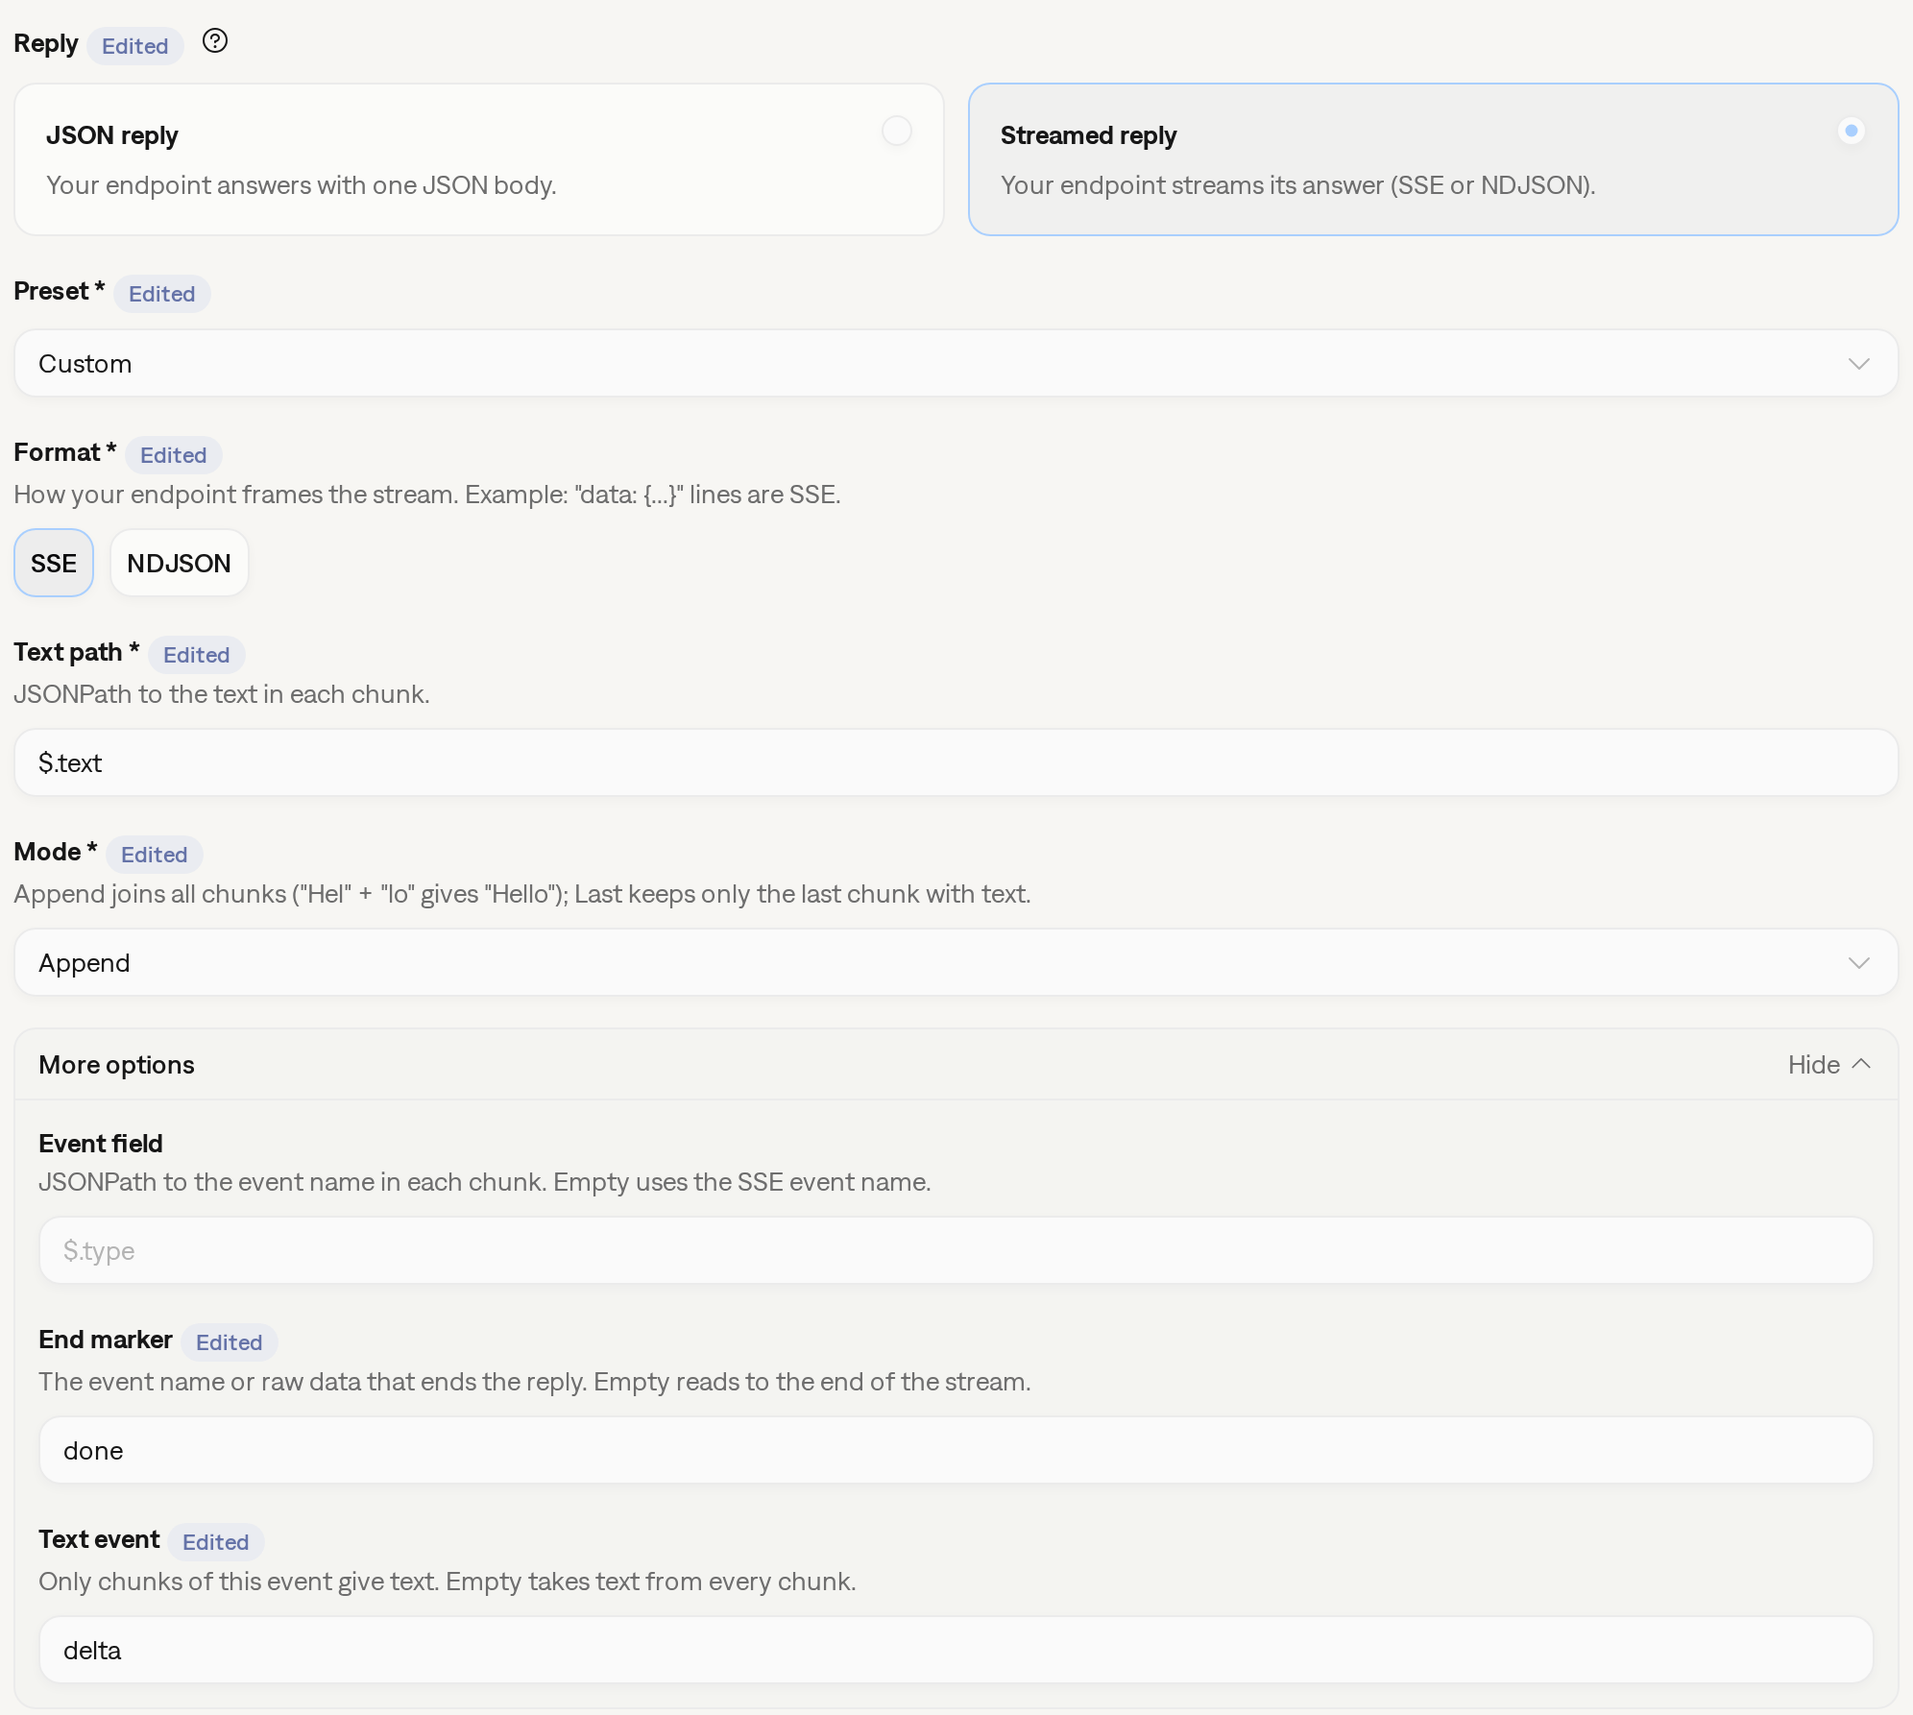
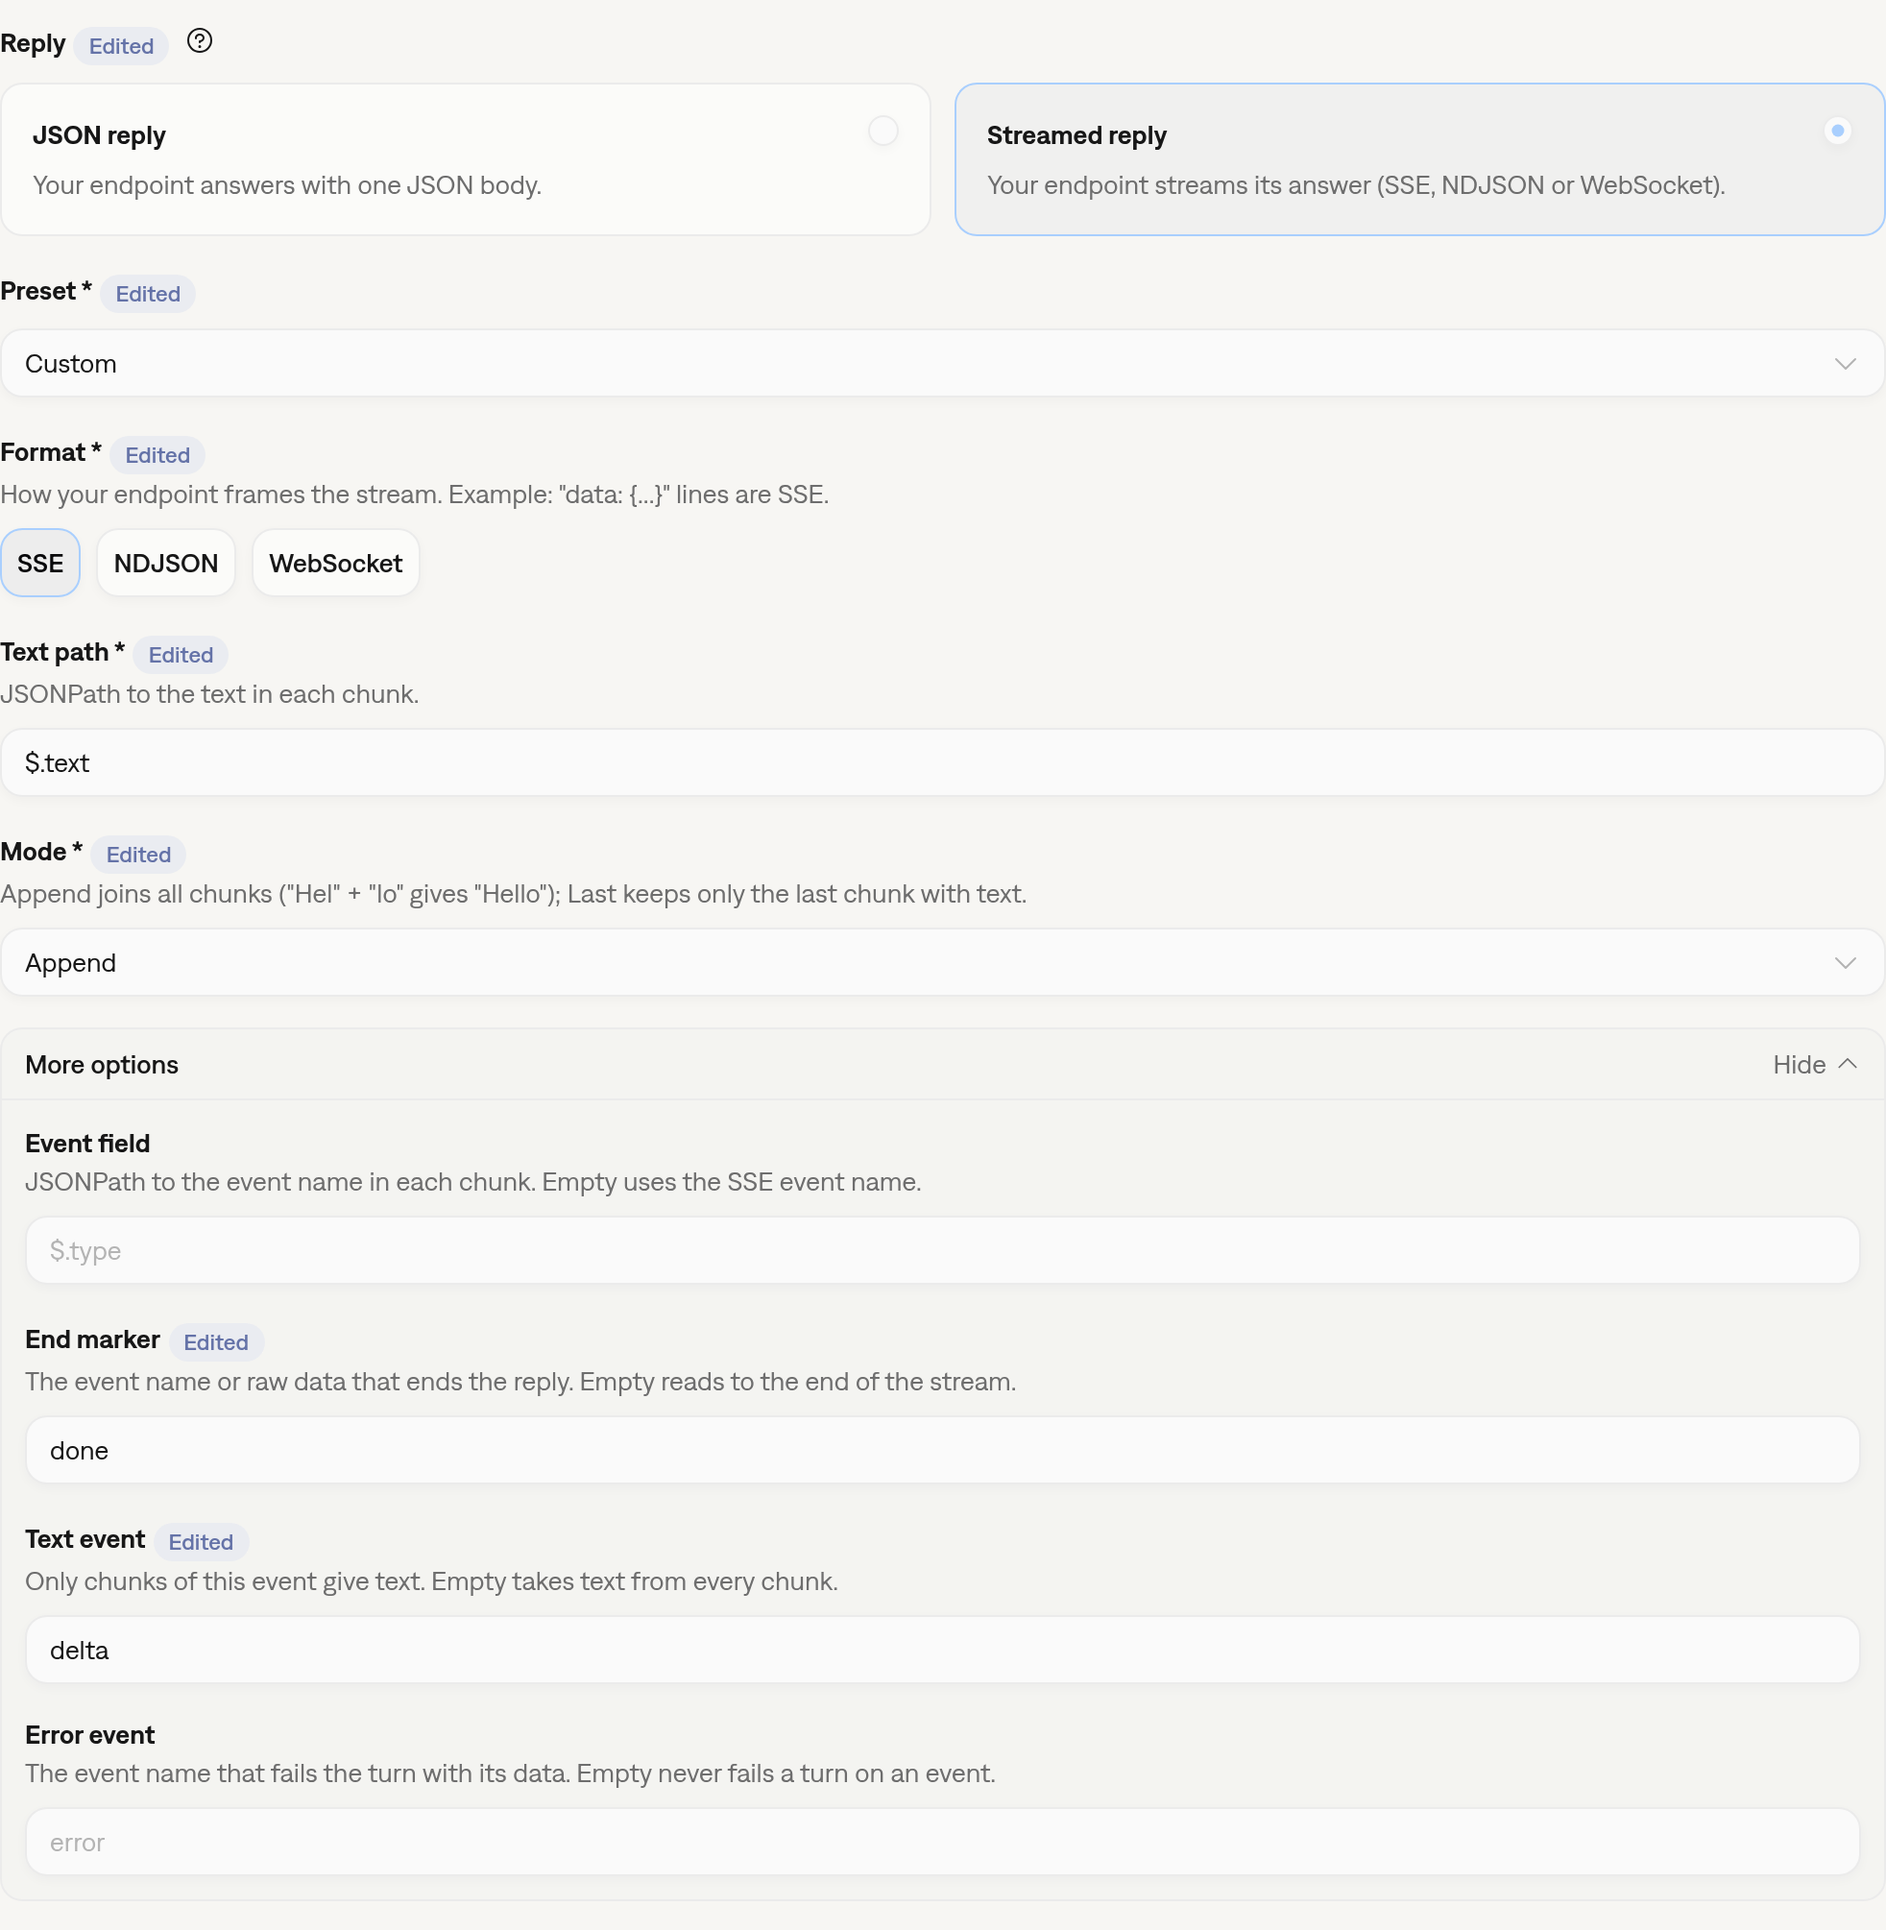
docs: deploy from internal-repo@4d304231a1618992a42be9842693f54f17303497 Galtea-AI/monorepo@4d304231a1618992a42be9842693f54f17303497

diff --git a/code/python/sdk_api_endpoint_connection.py b/code/python/sdk_api_endpoint_connection.py
@@ -95,6 +95,29 @@ assert custom_streaming_connection.stream_assembly.text_path == "$.delta"
 assert custom_streaming_connection.stream_assembly.mode == StreamAssemblyMode.APPEND
 assert custom_streaming_connection.stream_assembly.terminal_event == "done"
 
+# @start create_websocket
+websocket_connection = galtea.endpoint_connections.create(
+    name="websocket-chat-api-" + run_identifier,
+    product_id=product_id,
+    url="wss://api.example.com/v1/chat",
+    type=EndpointConnectionType.CONVERSATION,
+    auth_type="BEARER",
+    auth_token="YOUR_AUTH_TOKEN",
+    # Sent as one text message on the socket.
+    input_template='{"message": "{{ input.user_message }}"}',
+    output_mapping={"output": "$.text"},
+    stream_format=StreamFormat.WEBSOCKET,
+    # Each message holds a piece of the answer in "delta". The reply ends after 2 seconds with no message.
+    stream_assembly=StreamAssembly(text_path="$.delta", mode="APPEND", quiet_period_seconds=2),
+)
+# @end create_websocket
+
+if websocket_connection is None:
+    raise ValueError("websocket_connection is None")
+assert websocket_connection.stream_format == StreamFormat.WEBSOCKET
+assert websocket_connection.stream_assembly.quiet_period_seconds == 2
+galtea.endpoint_connections.delete(endpoint_connection_id=websocket_connection.id)
+
 # @start list
 endpoint_connections = galtea.endpoint_connections.list(
     product_ids=[product_id],
